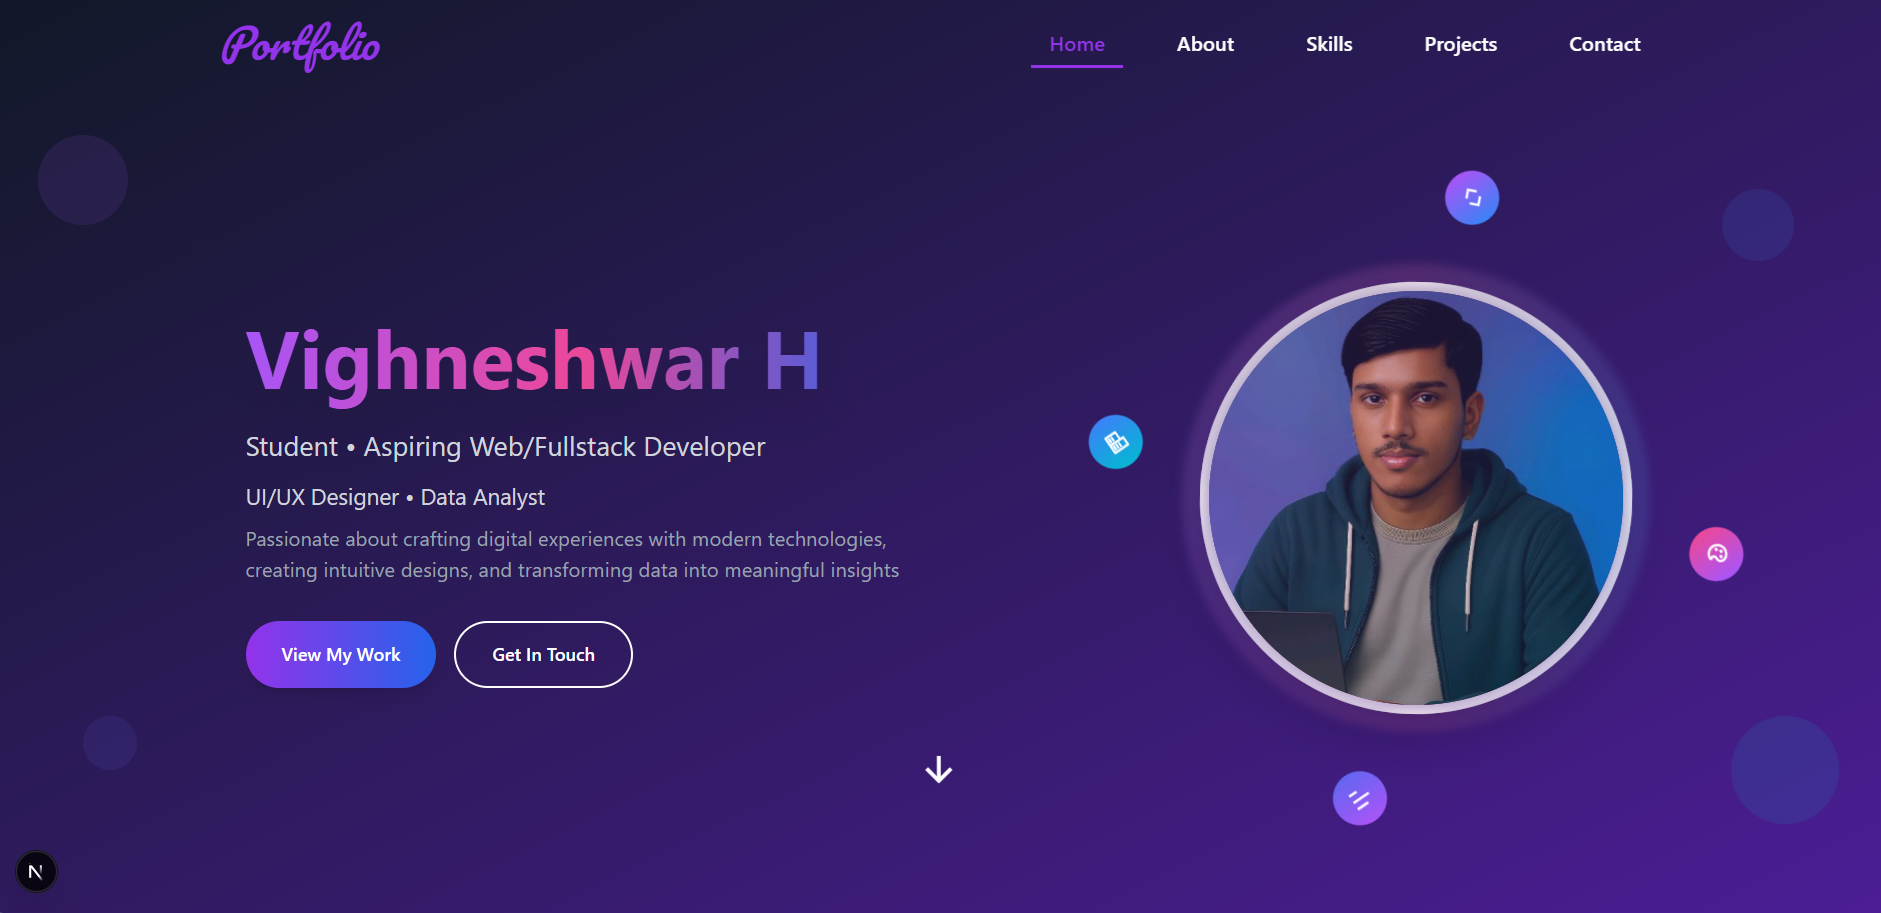
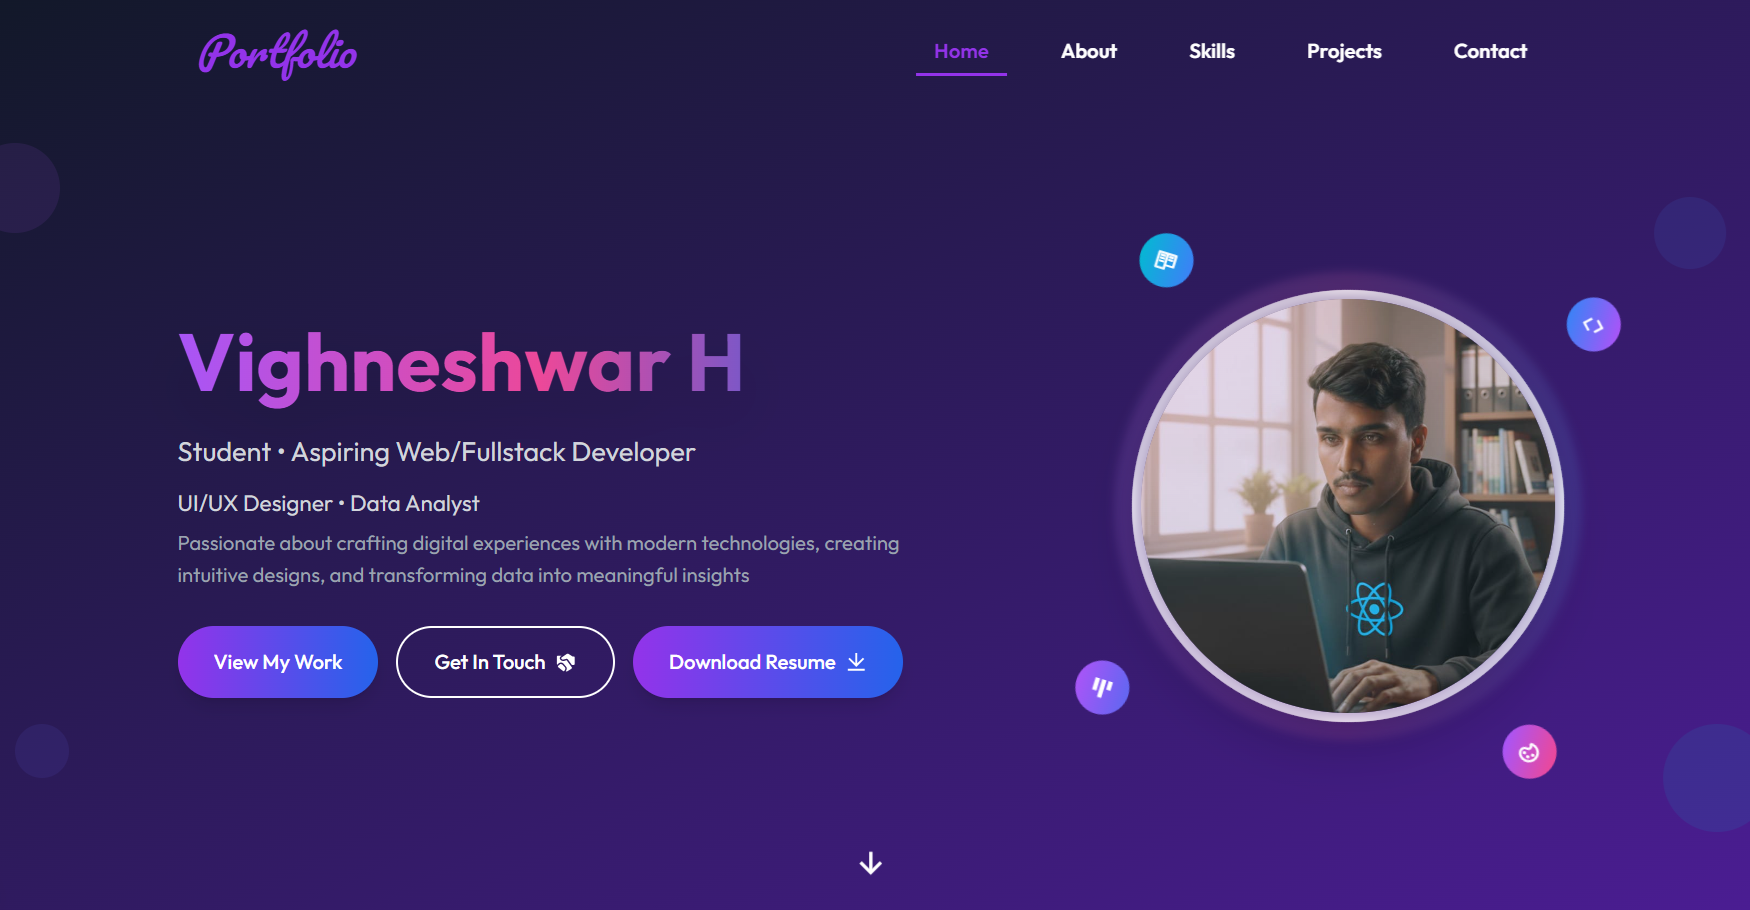
Portfolio Updated

diff --git a/components/Hero.tsx b/components/Hero.tsx
@@ -122,9 +122,9 @@ export default function Hero() {
               <div className="relative w-56 h-56 overflow-hidden border-4 rounded-full shadow-2xl sm:w-80 sm:h-80 md:w-96 md:h-96 sm:border-8 border-white/60 backdrop-blur-sm">
                 <div className="absolute inset-0 rounded-full bg-gradient-to-br from-purple-500/20 to-blue-500/20"></div>
                 <img
-                  src="https://image2url.com/images/1759576316801-91d13165-efa7-4df5-ab3d-4692acbf0cc5.png"
+                  src="https://image2url.com/images/1760276469727-9079f8e1-81b0-4e13-80a5-4bf61e6963f4.jpg"
                   alt="Vighneshwar H - Profile"
-                  className="object-cover object-top w-full h-full"
+                  className="object-cover object-top w-full h-full mix-blend-darken"
                 />
               </div>
               {/* Floating Tech Icons */}

diff --git a/components/Projects.tsx b/components/Projects.tsx
@@ -44,7 +44,7 @@ export default function Projects() {
       category: "frontend",
       description:
         "Responsive portfolio website with smooth animations and modern design patterns.",
-      image: "https://image2url.com/images/1759576861793-5d6e7d75-615b-41de-9033-8819675128c2.png",
+      image: "https://image2url.com/images/1760277355518-35ab2b45-8506-402e-92ca-edcd50b584c9.png",
       tech: ["Next.js", "React", "Tailwind CSS"],
       link: "#",
       icon:<LuCode/>
